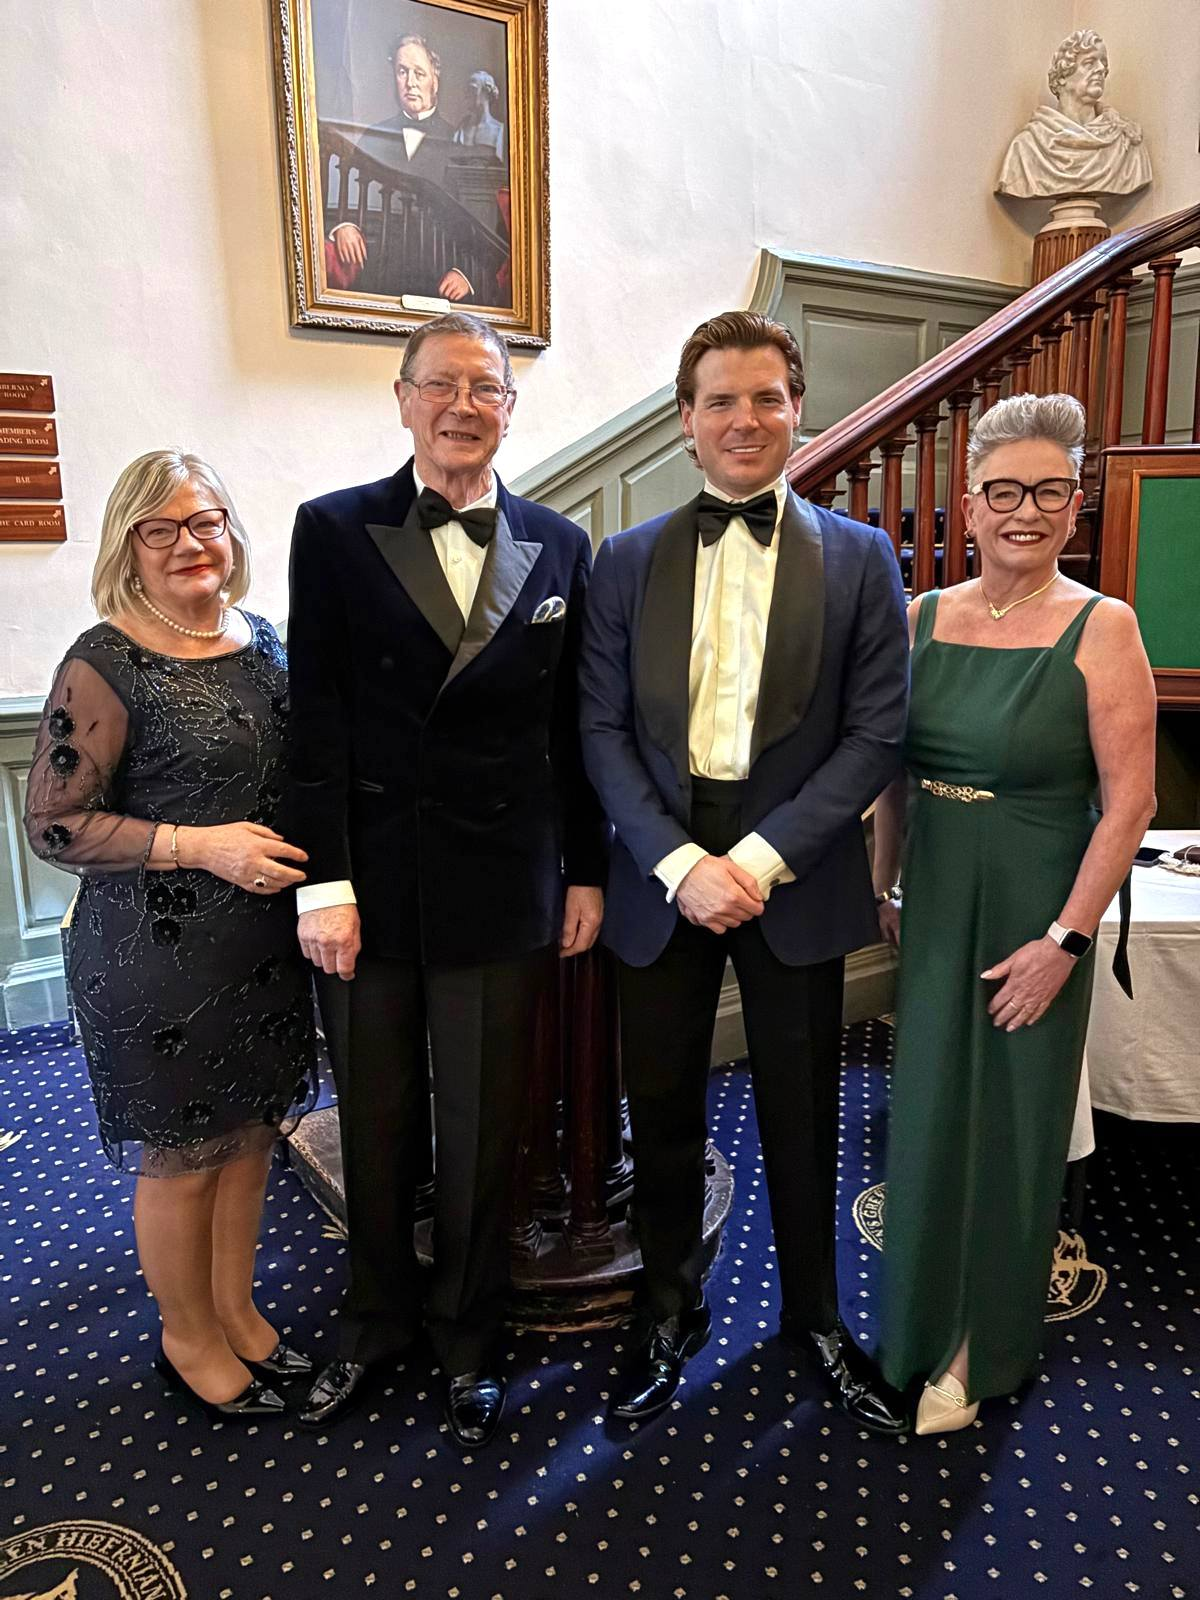
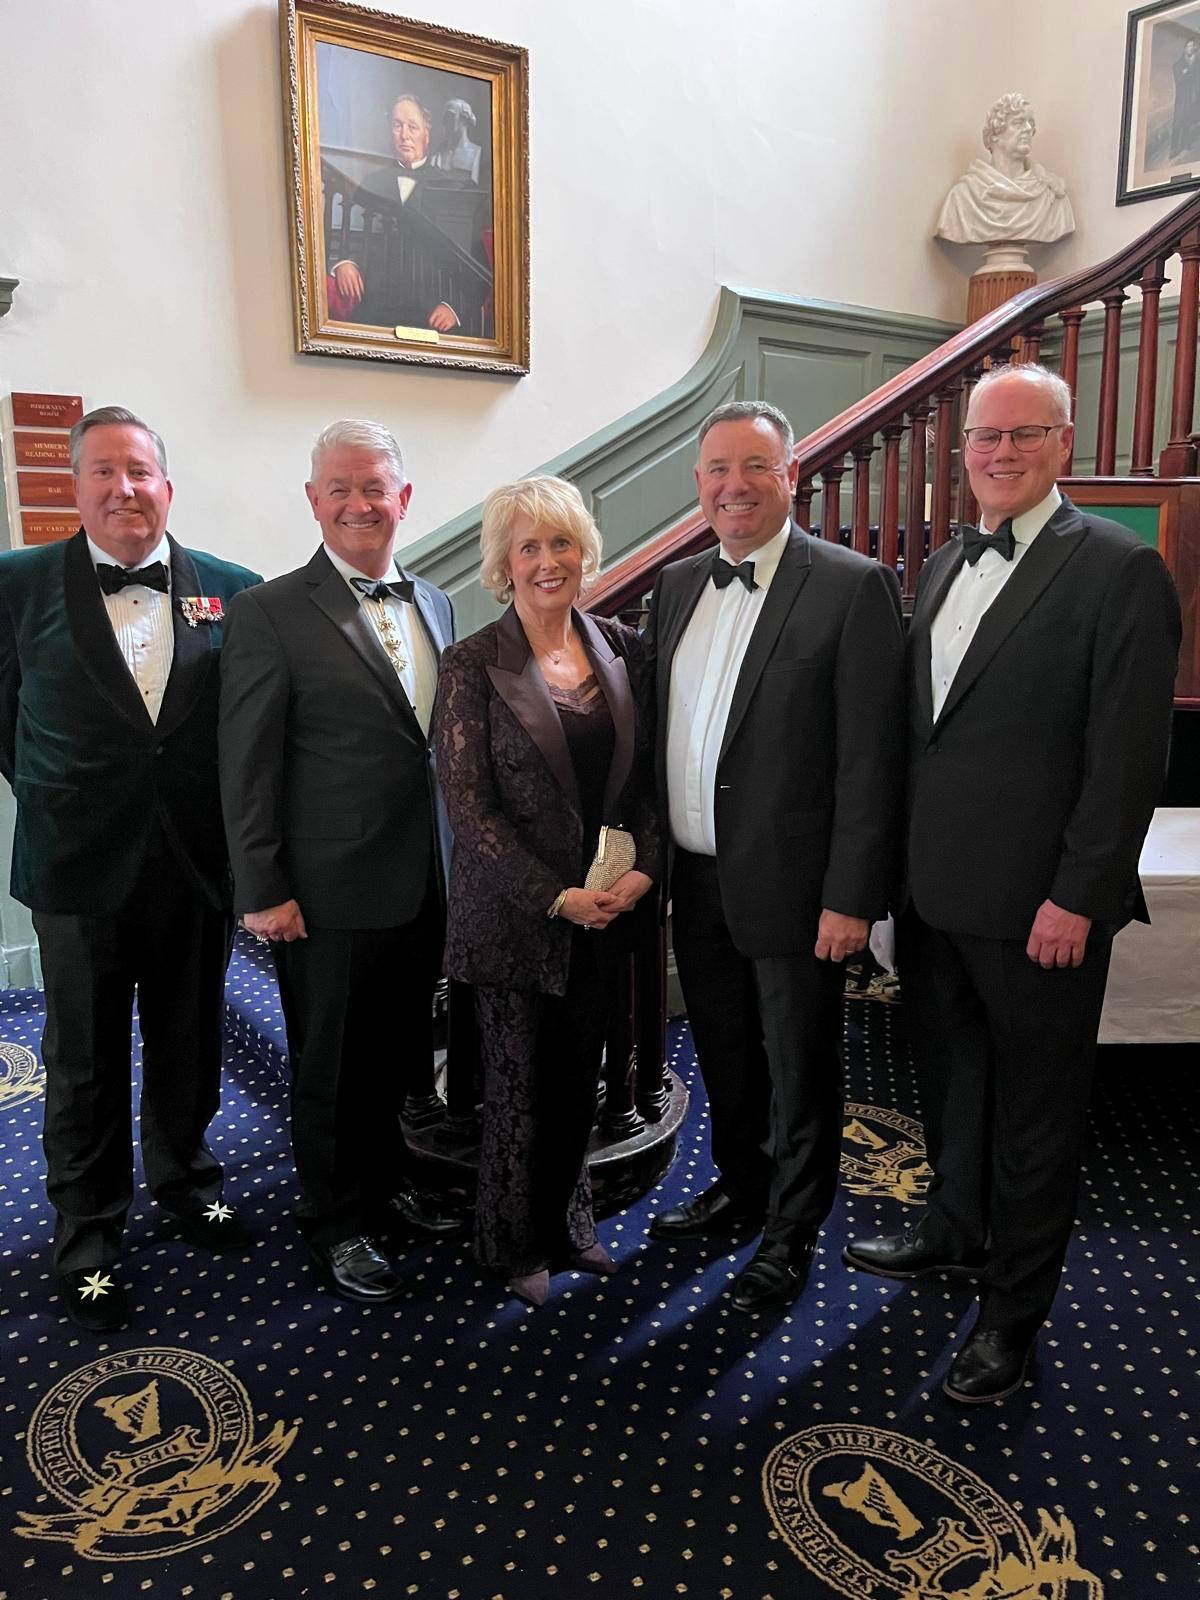
Replace gallery photo with St Stephen's Green Club group; update caption

diff --git a/index.html b/index.html
@@ -745,8 +745,8 @@ function closeModal2(e){
         <div class="gallery-cap">Holy Well of St John the Baptist</div>
       </div>
       <div class="gallery-item">
-        <img class="gallery-img" src="clans_event_1.jpg" alt="Clan Ó Comáin formal occasion, Dublin" loading="lazy">
-        <div class="gallery-cap">Clan Ó Comáin — Dublin 2026</div>
+        <img class="gallery-img" src="clans_event_1.jpg" alt="Clan Ó Comáin at St Stephen's Green Club, Dublin 2026" loading="lazy">
+        <div class="gallery-cap">St Stephen's Green Club, Dublin 2026</div>
       </div>
     </div>
   </div>
